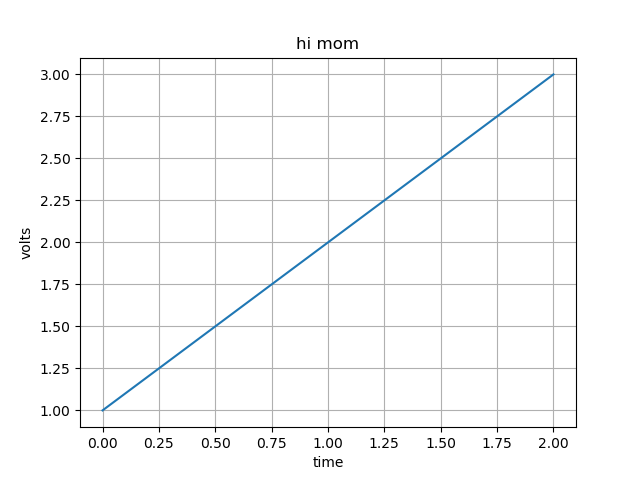
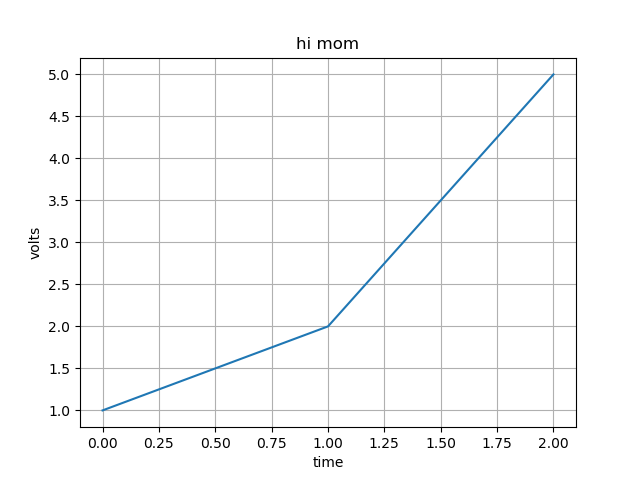
My Django Girls app,first commit

diff --git a/pythontest/p9_3.py b/pythontest/p9_3.py
@@ -7,7 +7,7 @@ fig = Figure()
 # argument.
 FigureCanvas(fig)
 ax = fig.add_subplot(111)
-ax.plot([1, 2, 3])
+ax.plot([1, 2, 5])
 ax.set_title('hi mom')
 ax.grid(True)
 ax.set_xlabel('time')
